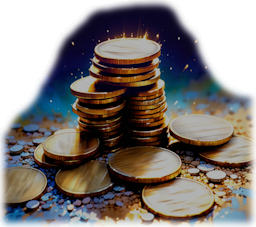
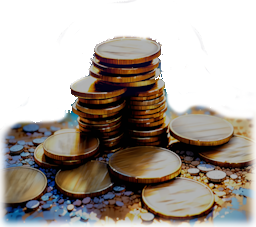
update images to look better on light/dark mode

Changed region(s): [[0.0312, 0.0, 1.0, 0.5551]]

diff --git a/src/components/common/SirHero.tsx b/src/components/common/SirHero.tsx
@@ -10,20 +10,28 @@ type SirHeroProps = {
 const SirHero: React.FC<SirHeroProps> = ({ image, children }) => {
   return (
     <div>
-      <div className="flex flex-col items-center justify-center p-0">
+      <div className="flex flex-col items-center justify-center p-0 py-10">
+        <h1 className="title w-full text-center text-[40px]">{children}</h1>
         {image && (
-          <div className="w-full p-0">
+          <div className="w-full rounded-xl p-4 dark:bg-transparent">
             <Image
-              src={`/${image}`}
+              src={`/${image}.svg`}
               alt="Hero Image"
               width={1024}
               height={338}
               priority
-              className="h-auto w-full"
+              className="hidden h-auto w-full dark:block"
+            />{" "}
+            <Image
+              src={`/${image}-light.svg`}
+              alt="Hero Image"
+              width={1024}
+              height={338}
+              priority
+              className="h-auto w-full dark:hidden"
             />
           </div>
         )}
-        <h1 className="title mt-3 text-center text-[44px]">{children}</h1>
       </div>
     </div>
   );

diff --git a/src/app/page.tsx b/src/app/page.tsx
@@ -18,7 +18,7 @@ export default function Home() {
   return (
     <>
       <div className="container">
-        <SirHero image="hero_image_borderless.png">
+        <SirHero image="VaultDiagram">
           Safer leverage for
           <br />
           Long-term investors
